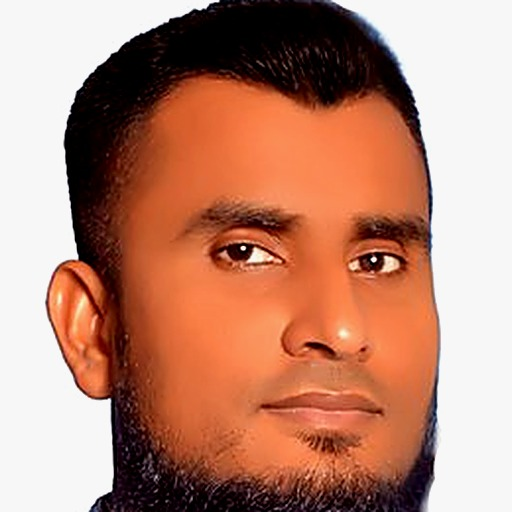
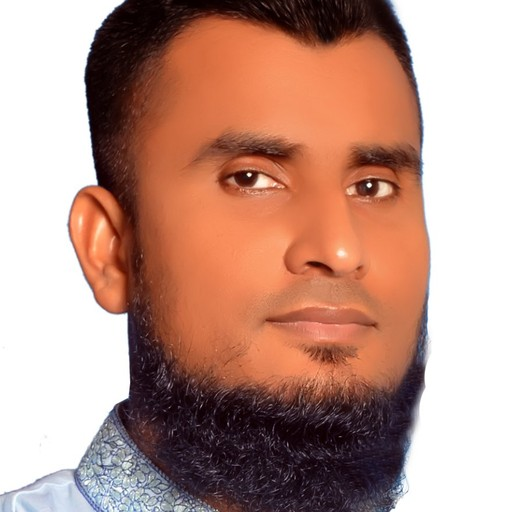
New high-res developer photo, face-centred crop
Claude-Session: https://claude.ai/code/session_01BS46CpVzowEovSaW9v9832

diff --git a/assets/css/style.css b/assets/css/style.css
@@ -87,7 +87,7 @@ button, input, select { font-family: inherit; font-size: inherit; color: inherit
   border-radius: 14.5px; background: #0e1714; padding: 10px 14px; display: flex; align-items: center; gap: 12px;
 }
 .dev-ribbon .avatar {
-  width: 54px; height: 54px; border-radius: 50%; flex: none; object-fit: cover; object-position: center 35%;
+  width: 54px; height: 54px; border-radius: 50%; flex: none; object-fit: cover; object-position: center;
   border: 2px solid rgba(227,185,78,.75); box-shadow: 0 0 0 3px rgba(87,211,162,.15), 0 4px 12px rgba(0,0,0,.4);
 }
 .dev-ribbon small { display: block; color: var(--muted); font-size: 11.5px; line-height: 1.3; }
@@ -457,7 +457,7 @@ body.no-scroll { overflow: hidden; }
 .install-card .ic-x { width: 30px; height: 38px; border: 0; background: none; color: var(--muted); font-size: 22px; cursor: pointer; }
 
 /* ফুটার */
-.footer .dev-photo { width: 84px; height: 84px; border-radius: 50%; object-fit: cover; object-position: center 35%; border: 2px solid rgba(227,185,78,.7); box-shadow: 0 6px 18px rgba(0,0,0,.45); margin-bottom: 6px; }
+.footer .dev-photo { width: 84px; height: 84px; border-radius: 50%; object-fit: cover; object-position: center; border: 2px solid rgba(227,185,78,.7); box-shadow: 0 6px 18px rgba(0,0,0,.45); margin-bottom: 6px; }
 .footer { text-align: center; padding: 22px 10px 8px; color: var(--muted); font-size: 12.5px; line-height: 1.7; }
 .footer .devname { color: var(--gold-2); font-weight: 700; font-size: 14px; }
 
